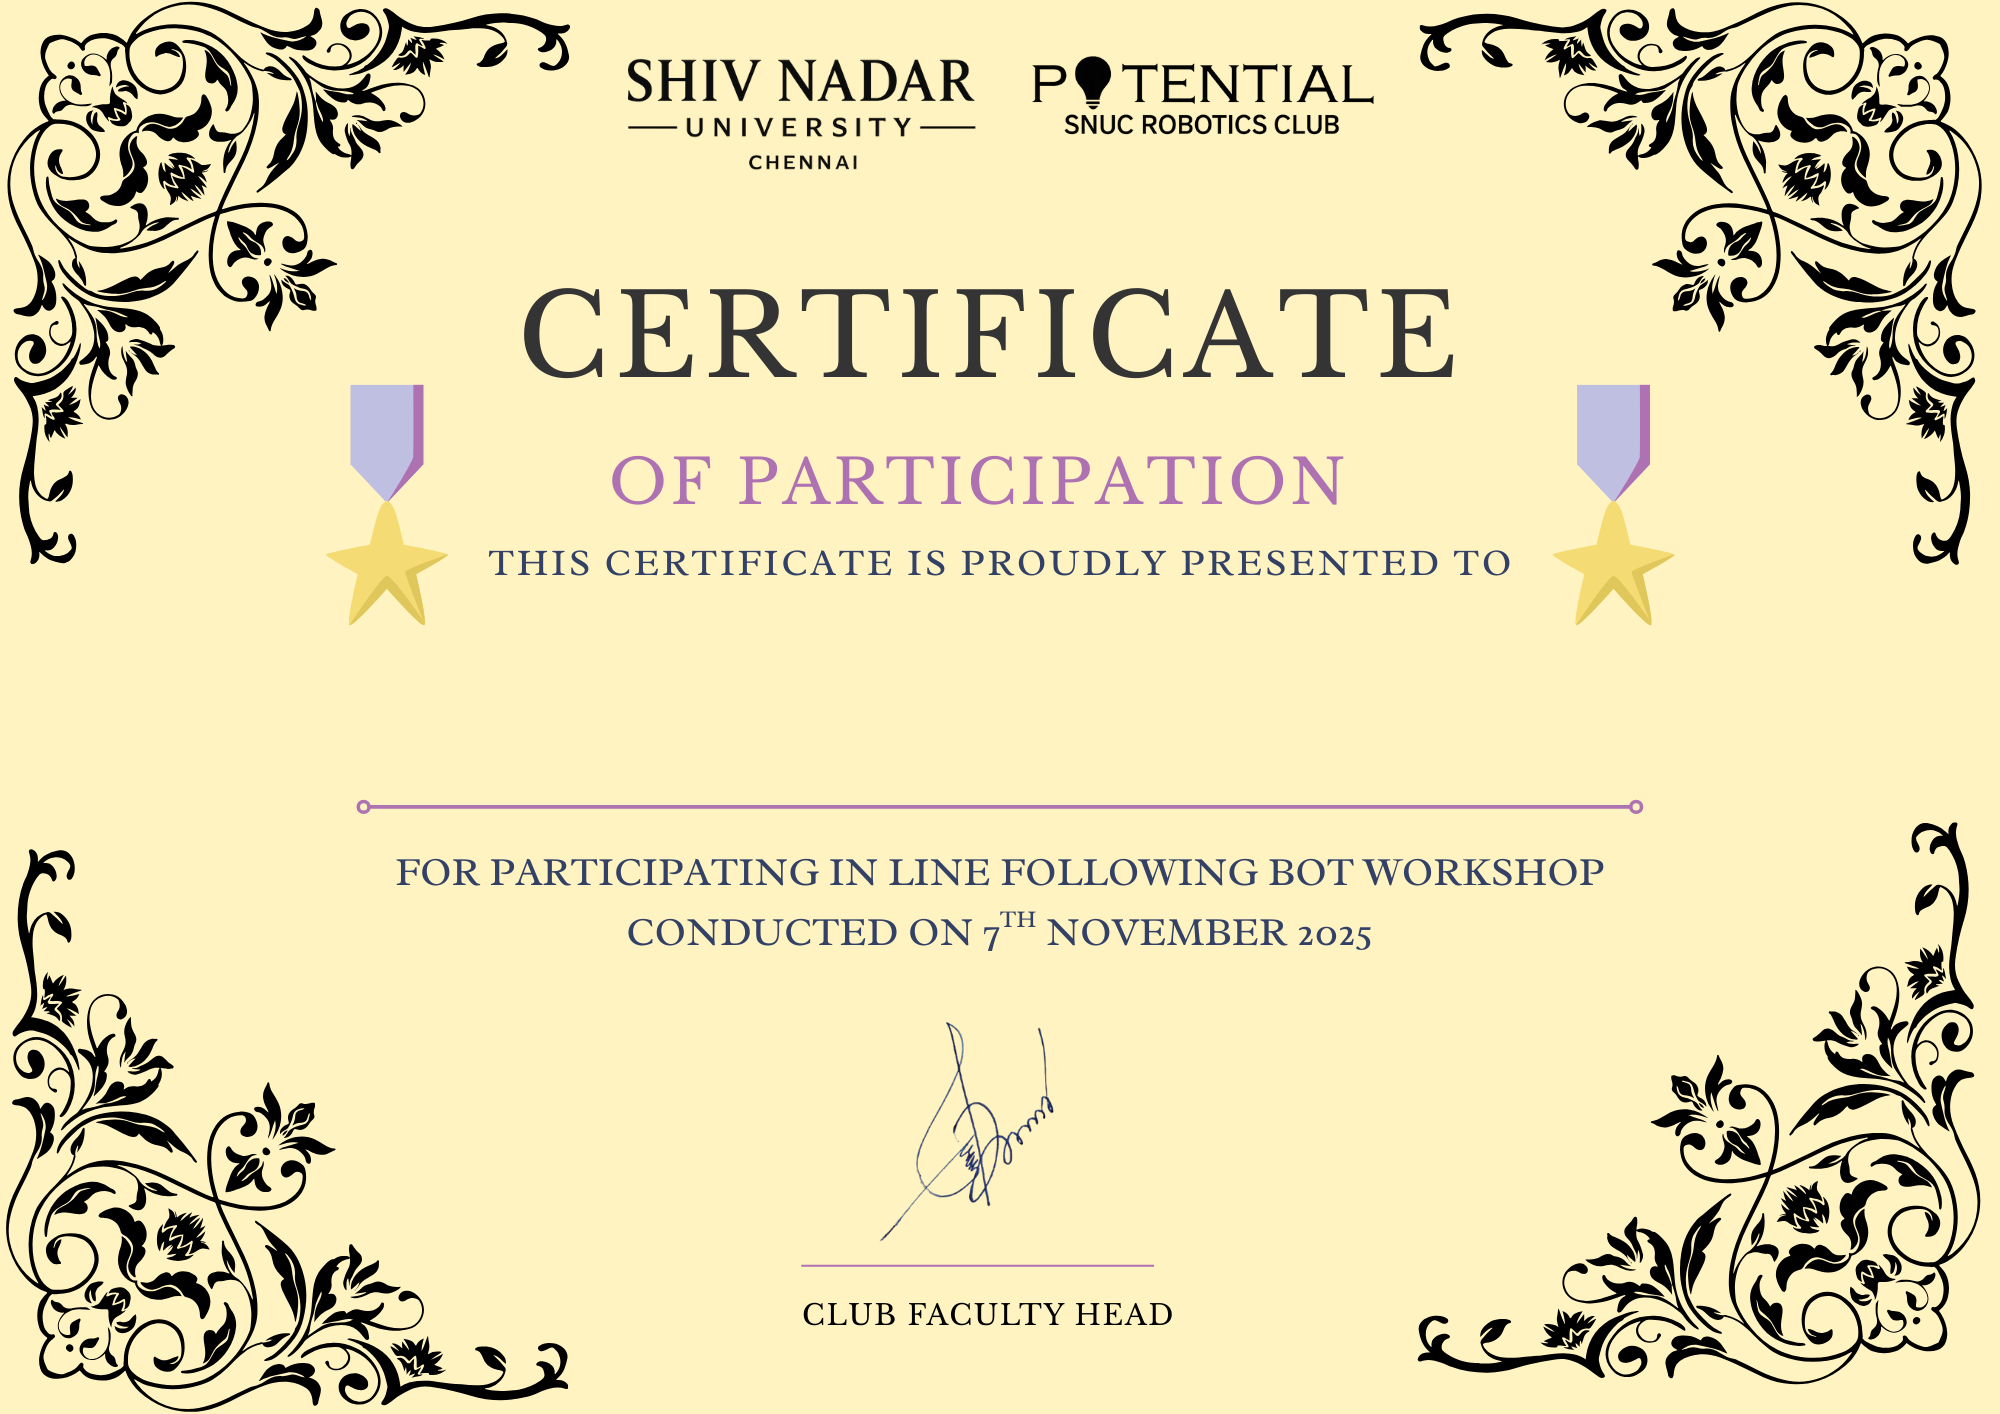
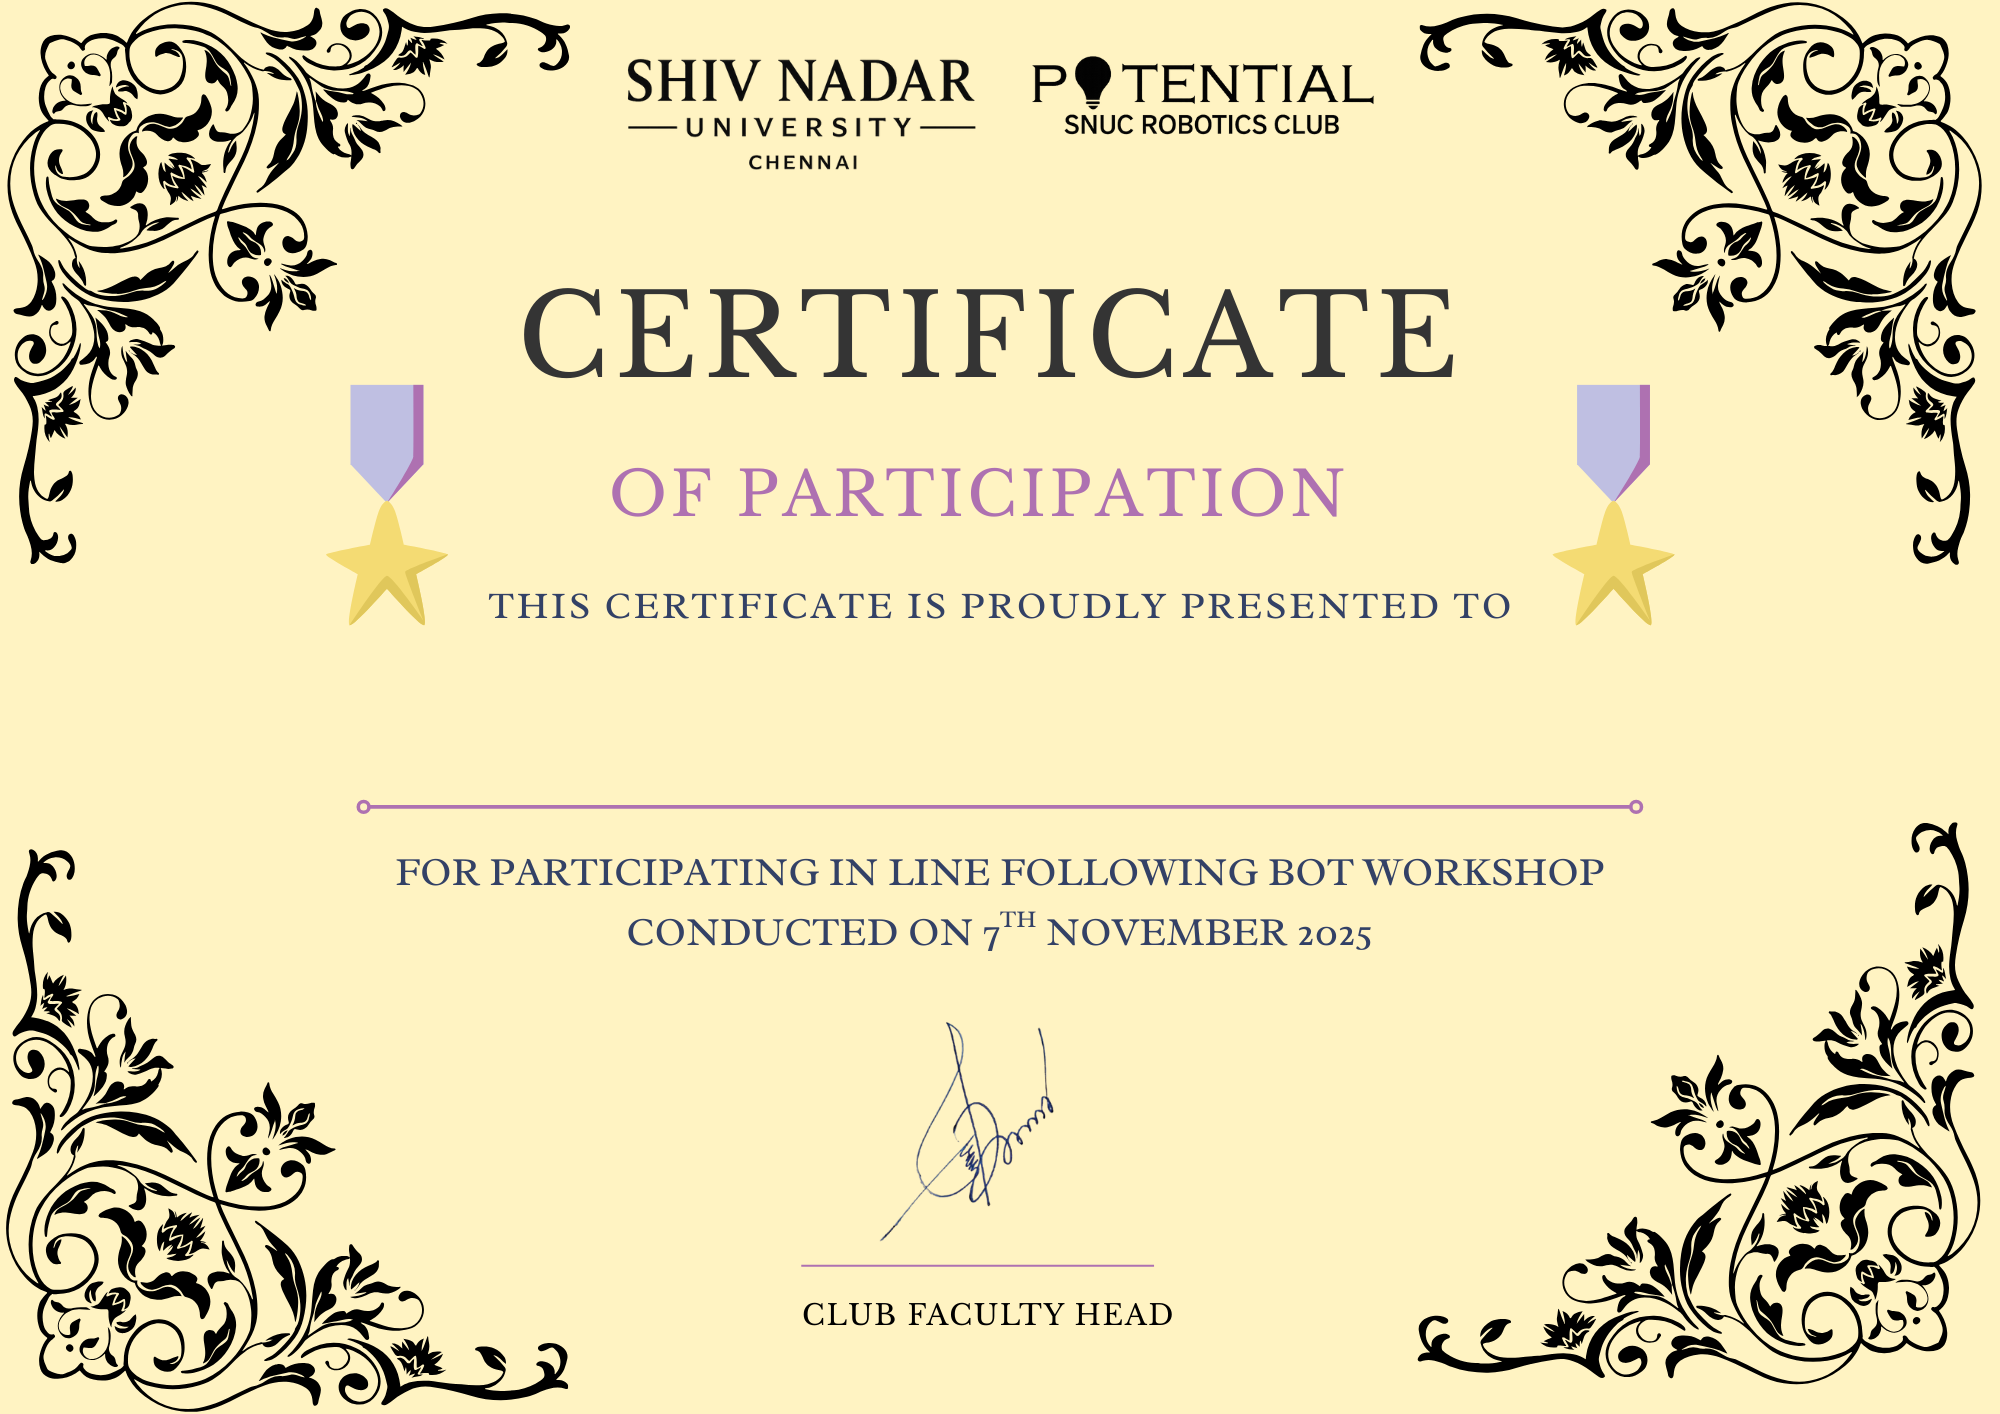
Modified code to align text

Changed region(s): [[0.248, 0.3112, 0.744, 0.4356]]

diff --git a/temp_certificate.html b/temp_certificate.html
@@ -2,7 +2,7 @@
 <html>
 <head>
   <meta charset="UTF-8">
-  <title>Krish K</title>
+  <title>M Kathir</title>
   <style>
     /* Scaled dimensions for Chrome compatibility */
     @page {
@@ -35,7 +35,7 @@
       right: 0;
       width: 1512px;
       height: 1068px;
-      background-image: url('certificates/sensorverse_cert.png');
+      background-image: url('certificates/line_bot_cert.png'); /*Update image address*/
       background-size: 1512px 1068px;
       background-position: center;
       background-repeat: no-repeat;
@@ -45,10 +45,10 @@
     
     .name {
       position: absolute;
-      top: 50%;
-      left: 53%;
+      top: 53%; /* +ve → down, -ve → up */
+      left: 49%; /* +ve → right, -ve → left */
       transform: translate(-50%, -50%);
-      font-size: 38px; /* Scale font proportionally */
+      font-size: 45px; /* Scale font proportionally */
       font-family:"MyCertificateFont", cursive;
       text-align: center;
       white-space: nowrap;
@@ -67,7 +67,7 @@
 </head>
 <body> 
   <div class="container">
-    <div class="name">Krish K</div>
+    <div class="name">M Kathir</div>
   </div>
 </body>
 </html>

diff --git a/template.html b/template.html
@@ -35,7 +35,7 @@
       right: 0;
       width: 1512px;
       height: 1068px;
-      background-image: url('certificates/sensorverse_cert.png');
+      background-image: url('certificates/line_bot_cert.png'); /*Update image address*/
       background-size: 1512px 1068px;
       background-position: center;
       background-repeat: no-repeat;
@@ -45,10 +45,10 @@
     
     .name {
       position: absolute;
-      top: 50%;
-      left: 53%;
+      top: 53%; /* +ve → down, -ve → up */
+      left: 49%; /* +ve → right, -ve → left */
       transform: translate(-50%, -50%);
-      font-size: 38px; /* Scale font proportionally */
+      font-size: 45px; /* Scale font proportionally */
       font-family:"MyCertificateFont", cursive;
       text-align: center;
       white-space: nowrap;

diff --git a/generate_cert_pdf.py b/generate_cert_pdf.py
@@ -10,8 +10,8 @@ import re
 # Config
 # -----------------------------
 TEMPLATE_PATH = "template.html"
-CSV_PATH = "event_data/sensorverse_data.csv"
-OUTPUT_FOLDER = "sensorverse_output"
+CSV_PATH = "event_data/line_bot_data.csv" #Update with the event_data
+OUTPUT_FOLDER = "line_bot_output" #Update output folder too
 PREVIEW = False   # <-- Set to False to generate PDFs
 
 os.makedirs(OUTPUT_FOLDER, exist_ok=True)
@@ -87,7 +87,7 @@ for _, row in students.iterrows():
 
         print(f"Generated: {pdf_path}")
         #os.remove(temp_path)  # Clean up temp HTML
-        break
+        # break
 
 # Cleanup
 # -----------------------------
